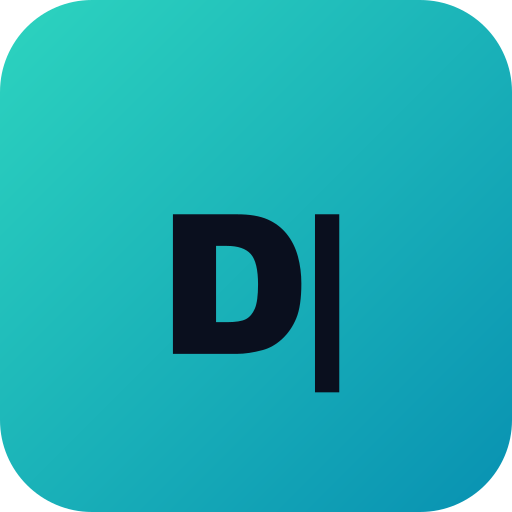
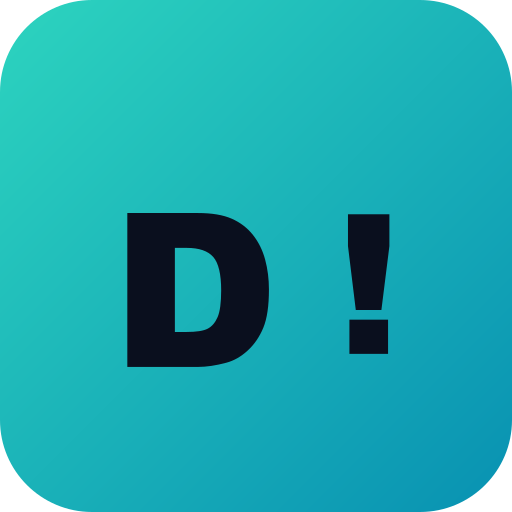
Update brand mark from D| to D!

Changed region(s): [[0.25, 0.4062, 0.7812, 0.7812]]

diff --git a/components/layout/dutchit-logo.tsx b/components/layout/dutchit-logo.tsx
@@ -25,7 +25,7 @@ export function DutchItLogo({ size = 'md', href, className }: DutchItLogoProps) 
           sizes.icon
         )}
       >
-        <span className="font-black tracking-tighter leading-none">D|</span>
+        <span className="font-black tracking-tighter leading-none">D!</span>
       </div>
       <span className={cn('font-black tracking-tight text-gradient', sizes.text)}>
         DutchIt

diff --git a/components/layout/app-sidebar.tsx b/components/layout/app-sidebar.tsx
@@ -68,7 +68,7 @@ export function AppSidebar({ user }: Props) {
               exit={{ opacity: 0 }}
               className="w-8 h-8 rounded-xl gradient-teal flex items-center justify-center font-black text-[#0a0f1e] text-sm"
             >
-              D|
+              D!
             </motion.div>
           ) : (
             <motion.div
